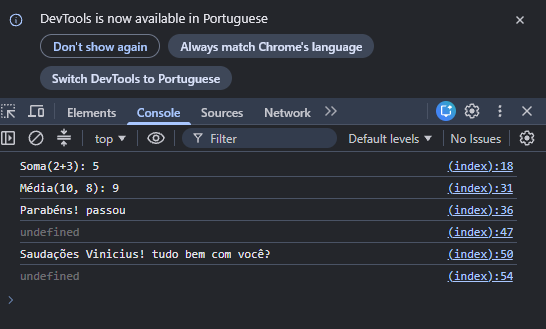
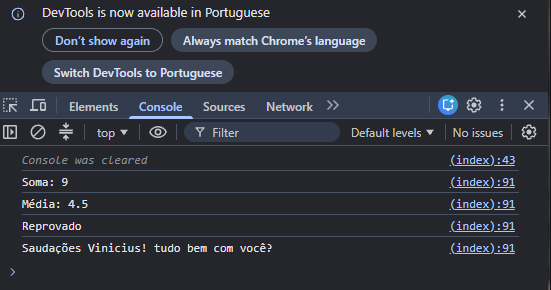
bug fix:corrigindo classificação da média final

diff --git a/js/exercicio11.js b/js/exercicio11.js
@@ -2,13 +2,13 @@ function somar(numero1, numero2) {
     return numero1 + numero2
 };
 
-var soma = somar(2, 3);
+var soma = somar(4, 5);
 
 console.log(`Soma: ${soma}`);
 
 function calculaMedia(nota1, nota2) {
     if (nota1 <= 10 && nota1 >= 0 && nota2 <= 10 && nota2 >= 0) {
-        return (nota1 + nota2) / 2
+        return (soma) / 2
     } else {
         console.log("Valor digitado não suportado, por favor digite um valor entre 0 e 10 nas notas");
     }
@@ -22,22 +22,22 @@ console.log(`Média: ${media}`);
 function classificaMedia(cMedia) {
 
     if (cMedia >= 7) {
-        console.log("Parabéns! passou");
+        return "Parabéns! passou";
     } else if (cMedia >= 5) {
-        console.log("Recuperação :(");
-    } else if (cMedia <= 4) {
-        console.log("Reprovado");
+        return "Recuperação";
+    } else {
+        return "Reprovado";
     }
 }
 
 
-var mediaFinal = classificaMedia(10);
+var mediaFinal = classificaMedia();
 
 console.log(mediaFinal);
 
 function saudacao(nome) {
-    console.log(`Saudações ${nome}! tudo bem com você?`);
+    return `Saudações ${nome}! tudo bem com você?`;
 }
 
-var saudar = saudacao("Vinicius");
-console.log(saudar);
+var cumprimento = saudacao("Vinicius");
+console.log(cumprimento);
